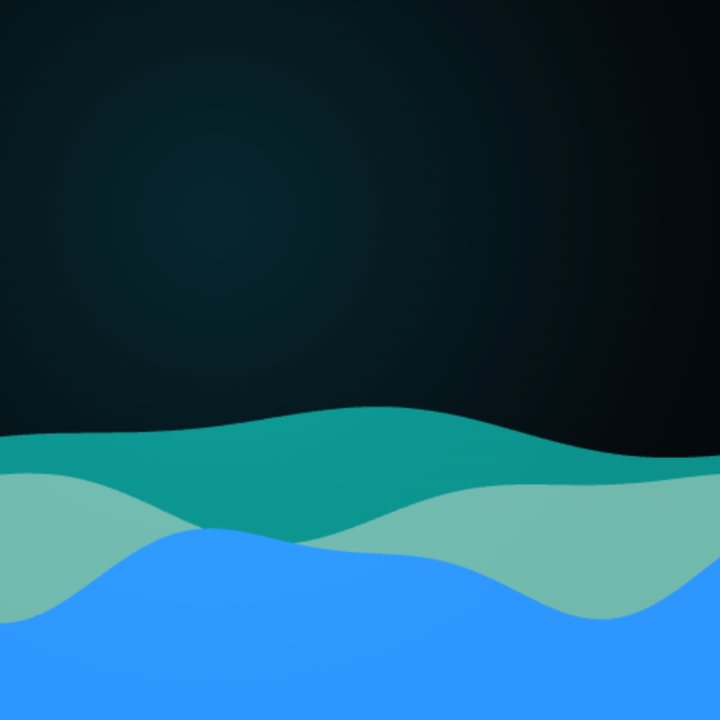
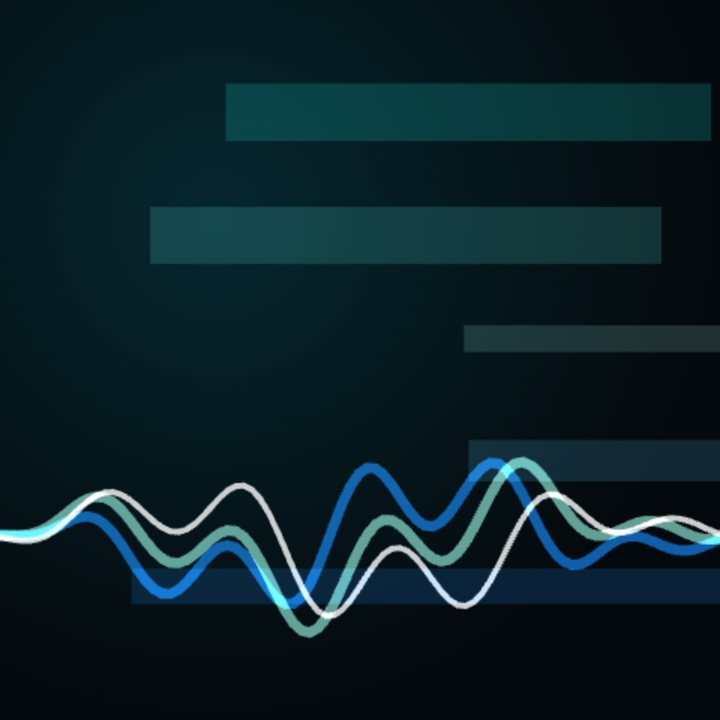
Liquid back to the drum & bass wave, with flat sliding colour bands instead of streaks and glow

diff --git a/spicy-visualiser.js b/spicy-visualiser.js
@@ -90,7 +90,7 @@
     mirror: '<g stroke="currentColor" stroke-width="2" stroke-linecap="round"><path d="M4 10v4M8 7v10M12 5v14M16 8v8M20 10v4"/></g>',
     plasma: '<circle cx="9" cy="10" r="6" opacity=".45"/><circle cx="15.5" cy="14.5" r="6" opacity=".45"/><circle cx="15" cy="7.5" r="3.6" opacity=".7"/><circle cx="7.5" cy="17" r="2.6" opacity=".6"/>',
     warp: '<g stroke="currentColor" stroke-width="1.6" stroke-linecap="round"><path d="M12 12 4 4M12 12l8-8M12 12l-8 8M12 12l8 8M12 12V2M12 12v10M12 12H2M12 12h10" opacity=".8"/></g>',
-    dnb: '<path d="M1 13c3-2 5 2 8 0s5-2 7 0 5 2 7 0v9H1z" fill="currentColor" opacity=".45"/><path d="M1 17c3-2 5 2 8 0s5-2 7 0 5 2 7 0v5H1z" fill="currentColor"/>',
+    dnb: '<path d="M2 15c2-4 3 4 5 0s3-5 5-1 3 5 5 0 3-3 5-1" fill="none" stroke="currentColor" stroke-width="2" stroke-linecap="round"/><g stroke="currentColor" stroke-width="1.4" stroke-linecap="round" opacity=".6"><path d="M4 6h7M13 9h8M7 4h4"/></g>',
     ascii: '<text x="2" y="10" font-size="8" font-family="monospace" font-weight="700">&gt;_</text><g opacity=".85"><rect x="3" y="15" width="2.5" height="6"/><rect x="7" y="12" width="2.5" height="9"/><rect x="11" y="16" width="2.5" height="5"/><rect x="15" y="13" width="2.5" height="8"/><rect x="19" y="17" width="2.5" height="4"/></g>',
     ledplasma: '<g>'+[4,8,12,16,20].map((x,i)=>[4,8,12,16,20].map((y,j)=>`<circle cx="${x}" cy="${y}" r="1.4" opacity="${(0.25+0.75*Math.abs(Math.sin(i*0.9+j*0.6))).toFixed(2)}"/>`).join('')).join('')+'</g>',
     led: '<g>'+[4,8,12,16,20].map((x,i)=>[20,16,12,8,4].map((y,j)=>`<circle cx="${x}" cy="${y}" r="1.4" opacity="${j<=[2,4,3,1,2][i]?1:.25}"/>`).join('')).join('')+'</g>',
@@ -2069,46 +2069,69 @@
   const cyc = (q) => 1 - Math.abs((((q % 2) + 2) % 2) - 1); // 0..1..0, no jumps
 
   // ---------------------------------------------------------------------------
-  // Liquid: three flat layers of liquid in the album's colours, sloshing on
-  // top of each other along the bottom like a screen-printed poster. Solid
-  // fills only (no glow, no lines). The waves roll one swing every 2 beats,
-  // each beat gives them a push, the bass makes them taller, and a snare
-  // lightens the front layer for a moment.
+  // Liquid (Drum & Bass): a growling "reese" bass wave (three detuned
+  // strands) that pumps on kicks, over a few wide flat colour bands sliding
+  // slowly past like the stripes on a tape deck (no thin lines, no glow).
+  // On every snare the bands brighten for a moment and there's a quick
+  // horizontal glitch.
   DRAW.dnb = (v, p, dt, t) => {
     const { ctx, w, h, U } = v;
-    const e = shared.energy, k = Math.min(1, shared.kick);
-    const st = v.dnb || (v.dnb = { phase: 0, b: 0, snap: 0, snareSeen: shared.snareSerial });
-    st.b += ((shared.bassPunch || 0) - st.b) * Math.min(1, dt * (1 - 0.6 * p.smoothing) * 8);
-    if (st.snareSeen !== shared.snareSerial) { st.snareSeen = shared.snareSerial; st.snap = 1; }
-    st.snap *= Math.exp(-dt * 6);
+    const e = shared.energy, bass = shared.bassPunch || 0, k = Math.min(1, shared.kick);
+    const st = v.dnb || (v.dnb = { flash: 0, glitch: 0, snareSeen: shared.snareSerial, phase: 0 });
+    // Flat bands: wide, dim, sliding slowly sideways (faster when loud).
+    if (!st.bands) st.bands = Array.from({ length: 5 }, (_, i) => ({ y: 0.12 + i * 0.17 + (Math.random() - 0.5) * 0.05, hh: 0.03 + Math.random() * 0.05, len: 0.35 + Math.random() * 0.5, x: Math.random(), sp: 0.03 + Math.random() * 0.05, c: i / 4 }));
+    if (st.snareSeen !== shared.snareSerial) {
+      st.snareSeen = shared.snareSerial;
+      st.flash = 1;
+      st.glitch = 1;
+    }
+    st.flash *= Math.exp(-dt * 7);
+    ctx.save();
+    ctx.globalCompositeOperation = "source-over";
+    for (const q of st.bands) {
+      q.x -= dt * q.sp * (0.6 + 1.2 * e) * p.speed;
+      if (q.x + q.len < 0) q.x += 1 + q.len;
+      const col = mix([10, 10, 14], colorAt(q.c), 0.26 + 0.22 * st.flash);
+      ctx.fillStyle = v.rgba(col, A_(0.4, v));
+      for (const xx of [q.x, q.x + 1 + q.len]) ctx.fillRect(xx * w, q.y * h, q.len * w, q.hh * h);
+    }
+    ctx.restore();
+    // Reese bass wave.
+    const y0 = h * 0.74;
+    const A = h * 0.13 * p.size * (0.12 + 0.9 * bass + 0.45 * k);
+    // The wave rolls one full swing every 2 beats (locked to the tempo),
+    // with a push on each beat that settles before the next.
     const lbp = beatPhase();
     if (st.tick !== shared.tickSerial) { st.tick = shared.tickSerial; st.push = 1; }
     st.push = (st.push || 0) * Math.exp(-dt * (4 / lbp.per));
-    st.phase += dt * ((Math.PI / lbp.per) * (0.8 + 0.4 * e) + 3 * st.push) * p.speed;
-    const A = h * 0.07 * p.size * (0.35 + 1.1 * st.b + 0.3 * k);
-    ctx.save();
-    ctx.globalCompositeOperation = "source-over";
-    ctx.globalAlpha = A_(1, v);
-    // back to front: darker and slower at the back
-    const layers = [[0.6, 0.55, 0.45, 0.0], [0.69, 0.75, 0.8, 0.5], [0.78, 1, 1.15, 1.0]];
-    layers.forEach(([top, shade, spd, cpos], i) => {
-      const y0 = h * (1 - (1 - top) * p.size);
-      const ph = st.phase * spd + i * 2.1;
+    st.phase += dt * ((Math.PI / lbp.per) * (0.8 + 0.4 * e) + 6 * st.push) * p.speed;
+    const growl = 0.4 + 1.6 * (shared.treble || 0) + 0.8 * e;
+    for (let strand = 0; strand < 3; strand++) {
+      const det = 1 + strand * 0.045; // detuned, like a reese
       ctx.beginPath();
-      ctx.moveTo(0, h + 2);
-      for (let x = 0; x <= w + 4 * U; x += 4 * U) {
+      for (let x = 0; x <= w; x += 4 * U) {
         const q = x / w;
-        const y = y0 + A * (0.6 + 0.25 * i) * (Math.sin(q * (5 + i * 1.5) + ph) * 0.7 + Math.sin(q * (11 + i * 2) - ph * 1.6) * 0.3);
-        ctx.lineTo(x, y);
+        const env = Math.sin(Math.PI * q);
+        const y = y0 + A * env * (Math.sin(q * 9 * det + st.phase * det) * 0.7 + Math.sin(q * 31 * det - st.phase * 2.3) * 0.3 * growl);
+        x ? ctx.lineTo(x, y) : ctx.moveTo(x, y);
       }
-      ctx.lineTo(w + 4 * U, h + 2);
-      ctx.closePath();
-      let c = mix([8, 8, 12], colorAt(cpos), shade);
-      if (i === 2) c = mix(c, WHITE, 0.18 * st.snap);
-      ctx.fillStyle = v.rgba(c, 1);
-      ctx.fill();
-    });
-    ctx.restore();
+      ctx.strokeStyle = v.rgba(strand === 0 ? WHITE : colorAt(strand / 2), strand === 0 ? 0.8 : 0.65);
+      ctx.lineWidth = (strand === 0 ? 2 : 3.5) * U * (1 + 0.6 * k);
+      ctx.stroke();
+    }
+    // Snare: glitch slices.
+    st.glitch *= Math.exp(-dt * 14);
+    if (st.glitch > 0.15) {
+      ctx.save();
+      ctx.setTransform(1, 0, 0, 1, 0, 0);
+      ctx.globalCompositeOperation = "source-over";
+      for (let i = 0; i < 3; i++) {
+        const sy = Math.random() * h, sh = h * (0.02 + Math.random() * 0.05);
+        const dx = (Math.random() - 0.5) * 40 * U * st.glitch;
+        ctx.drawImage(ctx.canvas, 0, sy, w, sh, dx, sy, w, sh);
+      }
+      ctx.restore();
+    }
   };
   const A_ = (a, v) => Math.max(0, Math.min(1, a * CP.brightness * (1 + 0.3 * shared.noLyr)));
 

diff --git a/src/spicy-visualiser.template.js b/src/spicy-visualiser.template.js
@@ -90,7 +90,7 @@
     mirror: '<g stroke="currentColor" stroke-width="2" stroke-linecap="round"><path d="M4 10v4M8 7v10M12 5v14M16 8v8M20 10v4"/></g>',
     plasma: '<circle cx="9" cy="10" r="6" opacity=".45"/><circle cx="15.5" cy="14.5" r="6" opacity=".45"/><circle cx="15" cy="7.5" r="3.6" opacity=".7"/><circle cx="7.5" cy="17" r="2.6" opacity=".6"/>',
     warp: '<g stroke="currentColor" stroke-width="1.6" stroke-linecap="round"><path d="M12 12 4 4M12 12l8-8M12 12l-8 8M12 12l8 8M12 12V2M12 12v10M12 12H2M12 12h10" opacity=".8"/></g>',
-    dnb: '<path d="M1 13c3-2 5 2 8 0s5-2 7 0 5 2 7 0v9H1z" fill="currentColor" opacity=".45"/><path d="M1 17c3-2 5 2 8 0s5-2 7 0 5 2 7 0v5H1z" fill="currentColor"/>',
+    dnb: '<path d="M2 15c2-4 3 4 5 0s3-5 5-1 3 5 5 0 3-3 5-1" fill="none" stroke="currentColor" stroke-width="2" stroke-linecap="round"/><g stroke="currentColor" stroke-width="1.4" stroke-linecap="round" opacity=".6"><path d="M4 6h7M13 9h8M7 4h4"/></g>',
     ascii: '<text x="2" y="10" font-size="8" font-family="monospace" font-weight="700">&gt;_</text><g opacity=".85"><rect x="3" y="15" width="2.5" height="6"/><rect x="7" y="12" width="2.5" height="9"/><rect x="11" y="16" width="2.5" height="5"/><rect x="15" y="13" width="2.5" height="8"/><rect x="19" y="17" width="2.5" height="4"/></g>',
     ledplasma: '<g>'+[4,8,12,16,20].map((x,i)=>[4,8,12,16,20].map((y,j)=>`<circle cx="${x}" cy="${y}" r="1.4" opacity="${(0.25+0.75*Math.abs(Math.sin(i*0.9+j*0.6))).toFixed(2)}"/>`).join('')).join('')+'</g>',
     led: '<g>'+[4,8,12,16,20].map((x,i)=>[20,16,12,8,4].map((y,j)=>`<circle cx="${x}" cy="${y}" r="1.4" opacity="${j<=[2,4,3,1,2][i]?1:.25}"/>`).join('')).join('')+'</g>',
@@ -2069,46 +2069,69 @@
   const cyc = (q) => 1 - Math.abs((((q % 2) + 2) % 2) - 1); // 0..1..0, no jumps
 
   // ---------------------------------------------------------------------------
-  // Liquid: three flat layers of liquid in the album's colours, sloshing on
-  // top of each other along the bottom like a screen-printed poster. Solid
-  // fills only (no glow, no lines). The waves roll one swing every 2 beats,
-  // each beat gives them a push, the bass makes them taller, and a snare
-  // lightens the front layer for a moment.
+  // Liquid (Drum & Bass): a growling "reese" bass wave (three detuned
+  // strands) that pumps on kicks, over a few wide flat colour bands sliding
+  // slowly past like the stripes on a tape deck (no thin lines, no glow).
+  // On every snare the bands brighten for a moment and there's a quick
+  // horizontal glitch.
   DRAW.dnb = (v, p, dt, t) => {
     const { ctx, w, h, U } = v;
-    const e = shared.energy, k = Math.min(1, shared.kick);
-    const st = v.dnb || (v.dnb = { phase: 0, b: 0, snap: 0, snareSeen: shared.snareSerial });
-    st.b += ((shared.bassPunch || 0) - st.b) * Math.min(1, dt * (1 - 0.6 * p.smoothing) * 8);
-    if (st.snareSeen !== shared.snareSerial) { st.snareSeen = shared.snareSerial; st.snap = 1; }
-    st.snap *= Math.exp(-dt * 6);
+    const e = shared.energy, bass = shared.bassPunch || 0, k = Math.min(1, shared.kick);
+    const st = v.dnb || (v.dnb = { flash: 0, glitch: 0, snareSeen: shared.snareSerial, phase: 0 });
+    // Flat bands: wide, dim, sliding slowly sideways (faster when loud).
+    if (!st.bands) st.bands = Array.from({ length: 5 }, (_, i) => ({ y: 0.12 + i * 0.17 + (Math.random() - 0.5) * 0.05, hh: 0.03 + Math.random() * 0.05, len: 0.35 + Math.random() * 0.5, x: Math.random(), sp: 0.03 + Math.random() * 0.05, c: i / 4 }));
+    if (st.snareSeen !== shared.snareSerial) {
+      st.snareSeen = shared.snareSerial;
+      st.flash = 1;
+      st.glitch = 1;
+    }
+    st.flash *= Math.exp(-dt * 7);
+    ctx.save();
+    ctx.globalCompositeOperation = "source-over";
+    for (const q of st.bands) {
+      q.x -= dt * q.sp * (0.6 + 1.2 * e) * p.speed;
+      if (q.x + q.len < 0) q.x += 1 + q.len;
+      const col = mix([10, 10, 14], colorAt(q.c), 0.26 + 0.22 * st.flash);
+      ctx.fillStyle = v.rgba(col, A_(0.4, v));
+      for (const xx of [q.x, q.x + 1 + q.len]) ctx.fillRect(xx * w, q.y * h, q.len * w, q.hh * h);
+    }
+    ctx.restore();
+    // Reese bass wave.
+    const y0 = h * 0.74;
+    const A = h * 0.13 * p.size * (0.12 + 0.9 * bass + 0.45 * k);
+    // The wave rolls one full swing every 2 beats (locked to the tempo),
+    // with a push on each beat that settles before the next.
     const lbp = beatPhase();
     if (st.tick !== shared.tickSerial) { st.tick = shared.tickSerial; st.push = 1; }
     st.push = (st.push || 0) * Math.exp(-dt * (4 / lbp.per));
-    st.phase += dt * ((Math.PI / lbp.per) * (0.8 + 0.4 * e) + 3 * st.push) * p.speed;
-    const A = h * 0.07 * p.size * (0.35 + 1.1 * st.b + 0.3 * k);
-    ctx.save();
-    ctx.globalCompositeOperation = "source-over";
-    ctx.globalAlpha = A_(1, v);
-    // back to front: darker and slower at the back
-    const layers = [[0.6, 0.55, 0.45, 0.0], [0.69, 0.75, 0.8, 0.5], [0.78, 1, 1.15, 1.0]];
-    layers.forEach(([top, shade, spd, cpos], i) => {
-      const y0 = h * (1 - (1 - top) * p.size);
-      const ph = st.phase * spd + i * 2.1;
+    st.phase += dt * ((Math.PI / lbp.per) * (0.8 + 0.4 * e) + 6 * st.push) * p.speed;
+    const growl = 0.4 + 1.6 * (shared.treble || 0) + 0.8 * e;
+    for (let strand = 0; strand < 3; strand++) {
+      const det = 1 + strand * 0.045; // detuned, like a reese
       ctx.beginPath();
-      ctx.moveTo(0, h + 2);
-      for (let x = 0; x <= w + 4 * U; x += 4 * U) {
+      for (let x = 0; x <= w; x += 4 * U) {
         const q = x / w;
-        const y = y0 + A * (0.6 + 0.25 * i) * (Math.sin(q * (5 + i * 1.5) + ph) * 0.7 + Math.sin(q * (11 + i * 2) - ph * 1.6) * 0.3);
-        ctx.lineTo(x, y);
+        const env = Math.sin(Math.PI * q);
+        const y = y0 + A * env * (Math.sin(q * 9 * det + st.phase * det) * 0.7 + Math.sin(q * 31 * det - st.phase * 2.3) * 0.3 * growl);
+        x ? ctx.lineTo(x, y) : ctx.moveTo(x, y);
       }
-      ctx.lineTo(w + 4 * U, h + 2);
-      ctx.closePath();
-      let c = mix([8, 8, 12], colorAt(cpos), shade);
-      if (i === 2) c = mix(c, WHITE, 0.18 * st.snap);
-      ctx.fillStyle = v.rgba(c, 1);
-      ctx.fill();
-    });
-    ctx.restore();
+      ctx.strokeStyle = v.rgba(strand === 0 ? WHITE : colorAt(strand / 2), strand === 0 ? 0.8 : 0.65);
+      ctx.lineWidth = (strand === 0 ? 2 : 3.5) * U * (1 + 0.6 * k);
+      ctx.stroke();
+    }
+    // Snare: glitch slices.
+    st.glitch *= Math.exp(-dt * 14);
+    if (st.glitch > 0.15) {
+      ctx.save();
+      ctx.setTransform(1, 0, 0, 1, 0, 0);
+      ctx.globalCompositeOperation = "source-over";
+      for (let i = 0; i < 3; i++) {
+        const sy = Math.random() * h, sh = h * (0.02 + Math.random() * 0.05);
+        const dx = (Math.random() - 0.5) * 40 * U * st.glitch;
+        ctx.drawImage(ctx.canvas, 0, sy, w, sh, dx, sy, w, sh);
+      }
+      ctx.restore();
+    }
   };
   const A_ = (a, v) => Math.max(0, Math.min(1, a * CP.brightness * (1 + 0.3 * shared.noLyr)));
 

diff --git a/docs/STYLES.md b/docs/STYLES.md
@@ -114,7 +114,7 @@ Soft sheets of light rolling across the screen, like the wave on an old games-co
 ### Liquid
 ![Liquid](screenshots/styles/dnb.jpg)
 
-Three flat layers of liquid in the album's colours sloshing on top of each other along the bottom, like a screen-printed poster: solid fills, no glow, no lines. The waves roll one swing every 2 beats and each beat gives them a push; the bass makes them taller and a snare lightens the front layer for a moment.
+A flowing three-strand bass wave that pumps on kicks, over a few wide, flat colour bands sliding slowly past like the stripes on a tape deck. On every snare the bands brighten for a moment and the picture glitches sideways. Made with drum & bass in mind.
 
 ---
 
